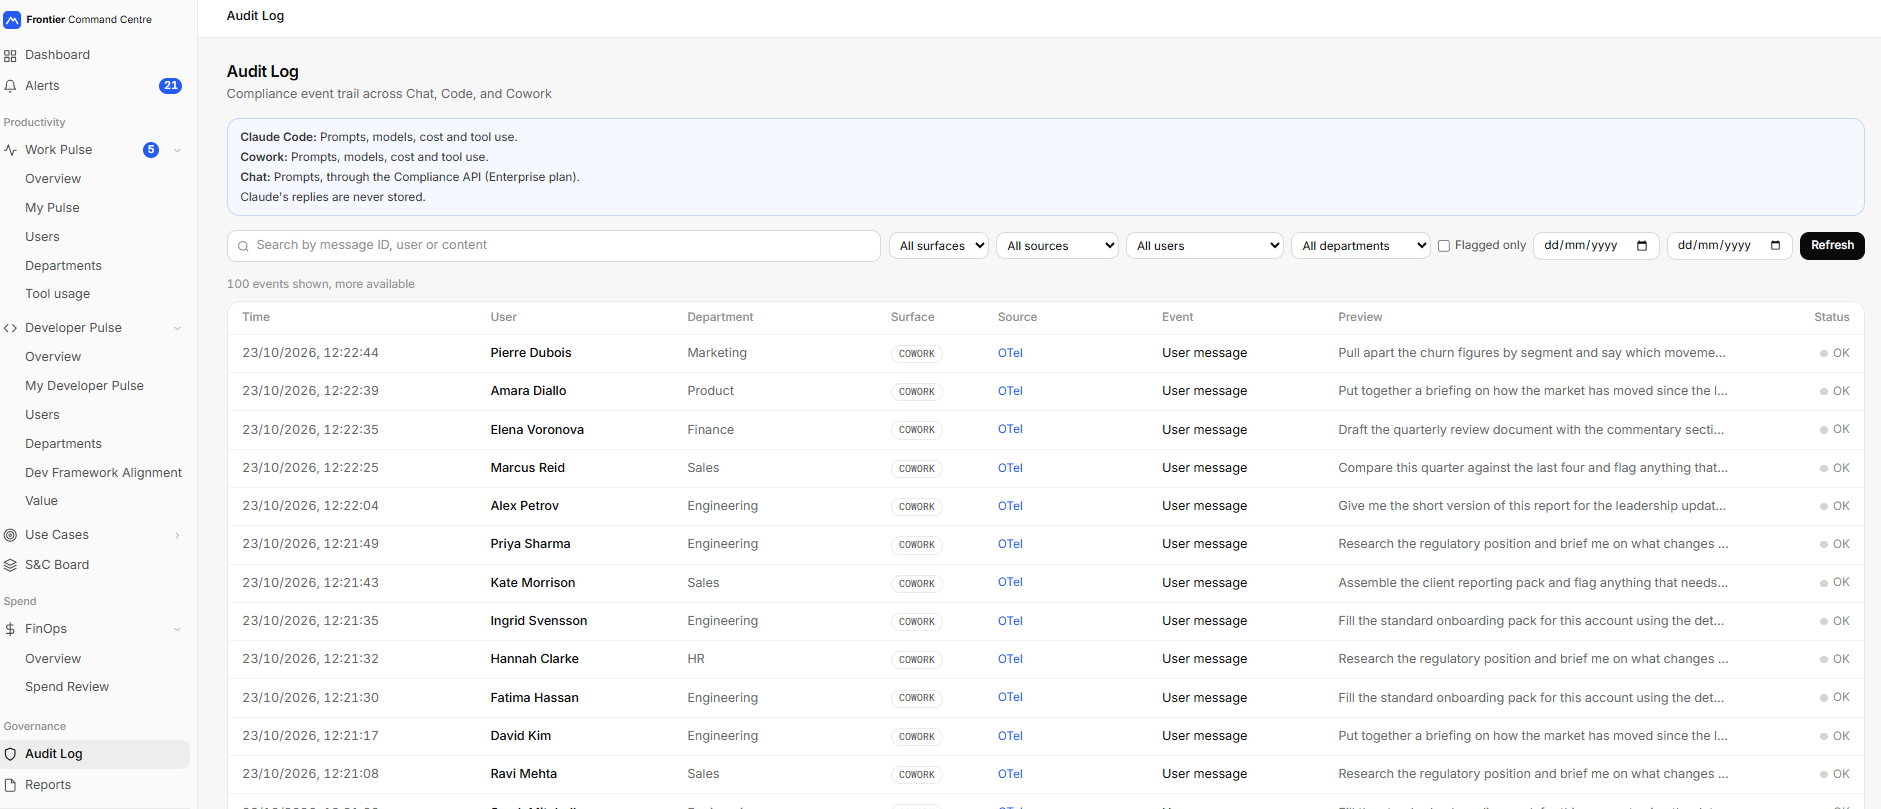
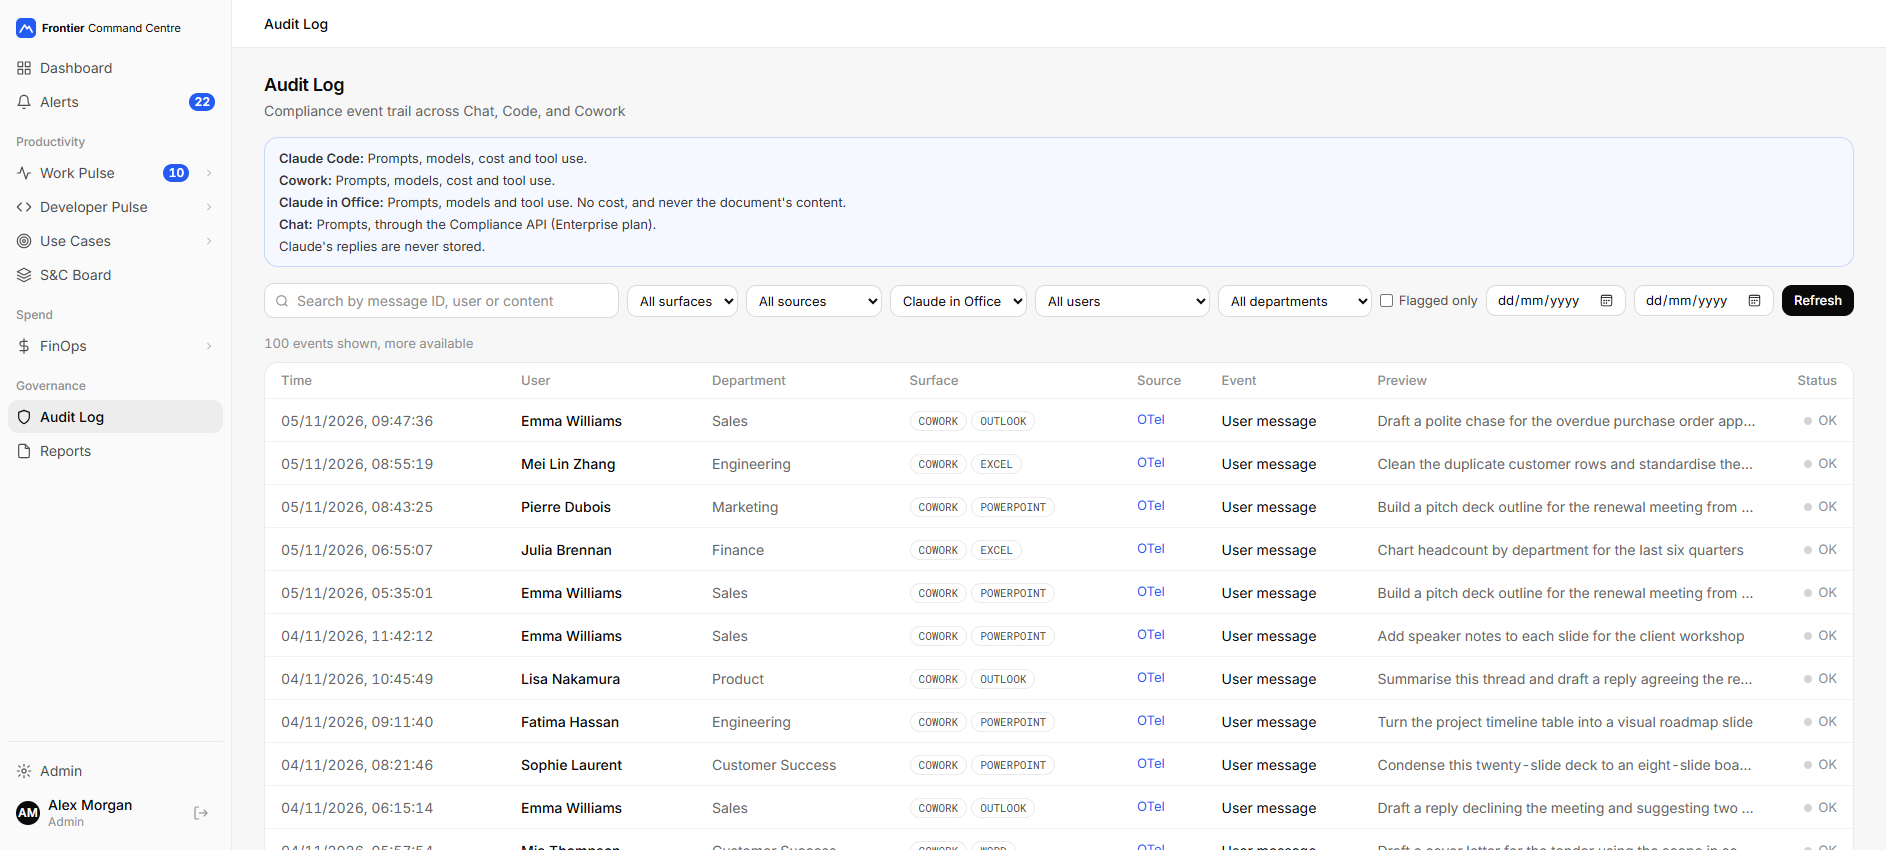
1.1.0: screenshots with Claude in Office, release date

diff --git a/docs/product-overview.md b/docs/product-overview.md
@@ -49,7 +49,7 @@ Work Pulse shows how deeply your people hand work to Claude, from routine tasks 
 
 Work Pulse also surfaces new kinds of work, standout individual contributions and outputs such as documents and files. Managers see where to coach; leaders see whether their investment is changing how work gets done. Every grade is labelled as an AI judgement, and an administrator can sample grades for human review.
 
-![Work Pulse: how deeply people hand work to Claude, and department process opportunities](images/work-pulse.png)
+![Work Pulse: how deeply people hand work to Claude, and how Claude Cowork compares with Claude in Excel, Word, PowerPoint and Outlook](images/work-pulse.png)
 
 ![Work Pulse: top skills and connectors, files produced, work mix and what the signals are telling you](images/work-pulse-signals.png)
 
@@ -97,7 +97,7 @@ The Skills and Connectors Board discovers capabilities already being used, inclu
 
 FinOps attributes AI spend to people, departments and cost centres, down to models, activities, prompts, skills and subagents. FinOps shows caching savings, unallocated costs and opportunities to use a more appropriate model or an existing skill or connector.
 
-![FinOps: spend by product, model efficiency by kind of work, cost drivers and the spend trend](images/finops.png)
+![FinOps: the Claude in Office estimate app by app, beside model efficiency by kind of work](images/finops.png)
 
 *Sample data from Acme Corp, a fictional company.*
 
@@ -121,7 +121,7 @@ Command Centre brings supported Claude activity into a searchable audit trail, w
 
 **Operational boundary:** Command Centre observes telemetry after prompts reach Claude, so Command Centre cannot block or change a prompt. Command Centre stores people's prompts, never Claude's replies.
 
-![The Audit Log: prompts from Claude Cowork, Claude Code and Claude Chat in one trail](images/audit-log.png)
+![The Audit Log filtered to Claude in Office, each prompt labelled with its app](images/audit-log.png)
 
 ![The Audit Log filtered to flagged prompts, with their severity](images/audit-log-flagged.png)
 

diff --git a/CHANGELOG.md b/CHANGELOG.md
@@ -1,6 +1,6 @@
 # Changelog
 
-## 1.1.0 (unreleased)
+## 1.1.0 (2026-11-05)
 
 ### Added
 
